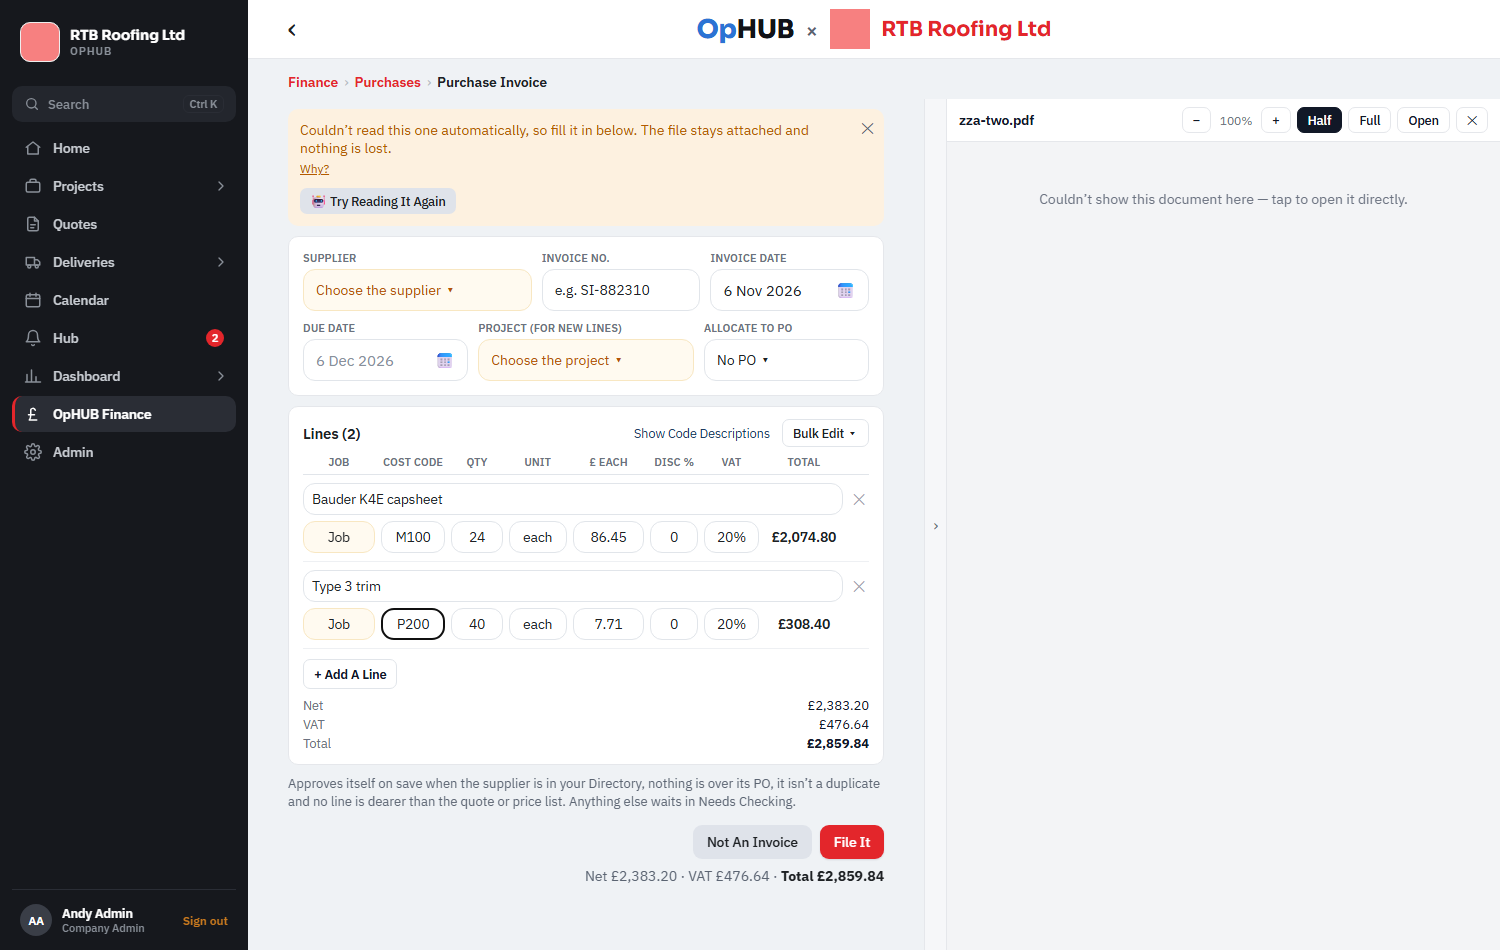
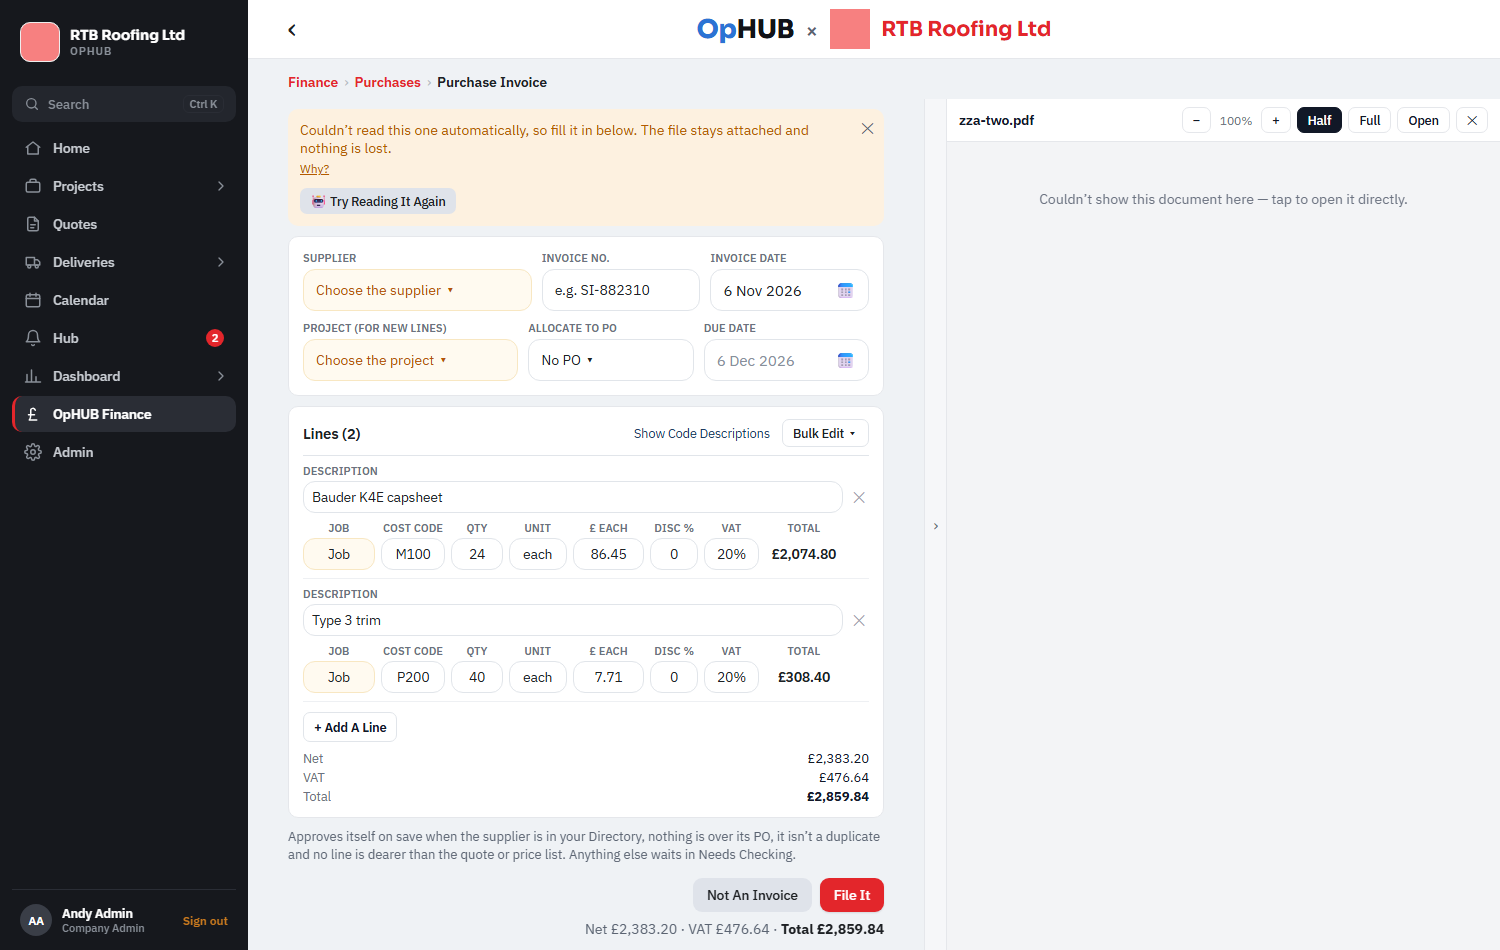
Purchase invoice lines (Andy, 6 Nov): beside the PDF each line has a Description heading over its description and the headings under it; Project, Allocate To PO, then Due Date on the right; the keyboard drop-down lists float over the page (nothing shows through, no sideways scrollbar, open upwards n
Claude-Session: https://claude.ai/code/session_012KhfNvBEbifMJmPdX7yZfp

diff --git a/app-native/src/components/InvoiceLines.tsx b/app-native/src/components/InvoiceLines.tsx
@@ -6,10 +6,10 @@
 // several projects by % (⇄), which must add up to 100%.
 // 6 Nov 2026 (Andy: "isn't nice to look at or simple to use"): laid out like the PO lines. Keyboard drop-downs for the
 // job, cost code, unit and VAT; cost codes show just the number unless Show Code Descriptions is ticked. Wide: one row
-// per line. Narrower (beside the PDF): the description on its own line, then Job, Code and the figures in one row
-// under one set of headings, everything centred.
+// per line. Narrower (beside the PDF): each line has Description over its description, then the headings and Job,
+// Code and the figures in one row under them, everything centred.
 import { useQuery } from '@tanstack/react-query';
-import { useState, type ReactNode } from 'react';
+import { useEffect, useRef, useState, type ComponentRef, type ReactNode } from 'react';
 import { Pressable, Text, TextInput, View } from 'react-native';
 
 import { pickJob } from '@/components/FinSales';
@@ -52,6 +52,10 @@ export function InvoiceLines({ lines: lines0, checks, sites, read, onChange, rea
   const [cardW, setCardW] = useState(0);
   const [splitAt, setSplitAt] = useState<number | null>(null);
   const [fullCodes, setFullCodes] = useState(false);
+  // + Add A Line (a click, or Tab to it and Enter) puts the cursor in the new line's description (Andy, 6 Nov 2026).
+  const descRefs = useRef<(ComponentRef<typeof TextInput> | null)[]>([]);
+  const [focusAt, setFocusAt] = useState<number | null>(null);
+  useEffect(() => { if (focusAt == null || !descRefs.current[focusAt]) return; descRefs.current[focusAt]?.focus(); setFocusAt(null); }, [focusAt, lines0.length]);
   // One row per line whenever it fits (beside the PDF too, with tighter columns); two rows only when narrow.
   const wide = cardW >= 680, tight = cardW < 960, phone = cardW > 0 && cardW < 520;
   // The company's cost codes (numbers); without any, the plain categories.
@@ -102,15 +106,20 @@ export function InvoiceLines({ lines: lines0, checks, sites, read, onChange, rea
   const total = (l: Line) => <View style={{ height: 32, justifyContent: 'center' }}><Text style={{ fontWeight: '600', color: base.ink, textAlign: 'center', fontSize: 13.5 }}>{money(lineValue(l))}</Text></View>;
   const drop = (k: number) => (readOnly ? null : <Pressable accessibilityRole="button" accessibilityLabel={`Remove line ${k + 1}`} hitSlop={6} onPress={() => { onChange(lines.filter((_, j) => j !== k)); setSplitAt(null); }} style={{ width: 20, height: 32, alignItems: 'center', justifyContent: 'center' }}><Text style={{ color: '#9ca3af', fontSize: 15 }}>✕</Text></Pressable>);
   const note = (k: number) => { const c = cheque(checks[k]); return c ? <Text style={{ color: c.col, fontSize: 11.5, fontWeight: '500', marginTop: 4 }}>{c.t}</Text> : null; };
-  const desc = (k: number, l: Line) => <TextInput editable={!readOnly} accessibilityLabel={`Line ${k + 1} description`} value={l.description ?? ''} onChangeText={(t) => set(k, { description: t })} placeholder="Description" style={box} />;
+  const desc = (k: number, l: Line) => <TextInput ref={(r) => { descRefs.current[k] = r; }} editable={!readOnly} accessibilityLabel={`Line ${k + 1} description`} value={l.description ?? ''} onChangeText={(t) => set(k, { description: t })} placeholder="Description" style={box} />;
   const cell = (w: number | 'flex', child: ReactNode, z = 0) => <View style={[w === 'flex' ? { flex: 1, minWidth: 120 } : { width: w }, z ? { zIndex: z } : null]}>{child}</View>;
   const H = (t: string, align: 'left' | 'center' | 'right' = 'center') => <Text style={[head, { textAlign: align }]}>{t}</Text>;
   // Column widths. Wide: one row. Narrower: the figures share the second row.
   const CW = tight ? { job: 74, code: fullCodes ? 180 : 66, qty: 48, unit: 58, rate: 74, disc: 46, vat: 56, total: 76, x: 20 } : { job: 92, code: fullCodes ? 210 : 80, qty: 58, unit: 66, rate: 84, disc: 56, vat: 64, total: 84, x: 20 };
   const FIG = phone ? { job: 0, code: 0, qty: 0.8, unit: 0.9, rate: 1.1, disc: 0.75, vat: 0.85, total: 1.25 } : { job: noJob ? 0 : 1.05, code: fullCodes ? 2.4 : 0.95, qty: 0.75, unit: 0.85, rate: 1.05, disc: 0.7, vat: 0.8, total: 1.15 };
   const fcell = (f: number, child: ReactNode, z = 0) => <View style={[{ flex: f, minWidth: 0 }, z ? { zIndex: z } : null]}>{child}</View>;
+  const figHead = (
+    <View style={{ flexDirection: 'row', gap: 6, marginTop: 8, marginBottom: 3 }}>
+      {!phone && !noJob && fcell(FIG.job, H('Job'))}{!phone && fcell(FIG.code, H(costHeading))}{fcell(FIG.qty, H('Qty'))}{fcell(FIG.unit, H('Unit'))}{fcell(FIG.rate, H('£ Each'))}{fcell(FIG.disc, H('Disc %'))}{fcell(FIG.vat, H('VAT'))}{fcell(FIG.total, H('Total'))}{!readOnly && <View style={{ width: 20 }} />}
+    </View>
+  );
   const figures = (k: number, l: Line) => (
-    <View style={{ flexDirection: 'row', gap: 6, marginTop: 6 }}>
+    <View style={{ flexDirection: 'row', gap: 6 }}>
       {!phone && showJob && fcell(FIG.job, job(k, l), 5)}{!phone && fcell(FIG.code, cost(k, l), 4)}{fcell(FIG.qty, qty(k, l))}{fcell(FIG.unit, unit(k, l), 3)}{fcell(FIG.rate, rate(k, l))}{fcell(FIG.disc, disc(k, l))}{fcell(FIG.vat, vat(k, l), 2)}{fcell(FIG.total, total(l))}{!readOnly && <View style={{ width: 20 }} />}
     </View>
   );
@@ -158,18 +167,12 @@ export function InvoiceLines({ lines: lines0, checks, sites, read, onChange, rea
           {codes.length > 0 && <Pressable onPress={() => setFullCodes(!fullCodes)}><Text style={{ color: base.blue, fontSize: 12.5 }}>{fullCodes ? 'Codes Only' : 'Show Code Descriptions'}</Text></Pressable>}
           {!readOnly && lines.length > 0 && <Pressable onPress={() => void bulk()} accessibilityRole="button" style={{ borderWidth: 1, borderColor: base.line, borderRadius: 7, paddingHorizontal: 10, height: 28, justifyContent: 'center' }}><Text style={{ fontSize: 12.5, fontWeight: '500', color: base.ink }}>Bulk Edit ▾</Text></Pressable>}
         </View>
-        {/* Headings once at the top. */}
-        <View style={{ paddingBottom: 5, borderBottomWidth: 1, borderBottomColor: base.line }}>
-          {wide ? (
+        {/* Wide: the headings once at the top. Narrower: each line has its own (Andy, 6 Nov 2026). */}
+        <View style={wide ? { paddingBottom: 5, borderBottomWidth: 1, borderBottomColor: base.line } : { borderBottomWidth: 1, borderBottomColor: base.line }}>
+          {wide && (
             <View style={{ flexDirection: 'row', gap: 6 }}>
               {cell('flex', H('Description', 'left'))}{showJob && cell(CW.job, H('Job'))}{cell(CW.code, H(costHeading))}{cell(CW.qty, H('Qty'))}{cell(CW.unit, H('Unit'))}{cell(CW.rate, H('£ Each'))}{cell(CW.disc, H('Disc %'))}{cell(CW.vat, H('VAT'))}{cell(CW.total, H('Total'))}{!readOnly && cell(CW.x, null)}
             </View>
-          ) : (
-            <>
-              <View style={{ flexDirection: 'row', gap: 6 }}>
-                {!phone && showJob && fcell(FIG.job, H('Job'))}{!phone && fcell(FIG.code, H(costHeading))}{fcell(FIG.qty, H('Qty'))}{fcell(FIG.unit, H('Unit'))}{fcell(FIG.rate, H('£ Each'))}{fcell(FIG.disc, H('Disc %'))}{fcell(FIG.vat, H('VAT'))}{fcell(FIG.total, H('Total'))}{!readOnly && <View style={{ width: 20 }} />}
-              </View>
-            </>
           )}
         </View>
         {lines.map((l, k) => (
@@ -180,13 +183,18 @@ export function InvoiceLines({ lines: lines0, checks, sites, read, onChange, rea
               </View>
             ) : phone ? (
               <>
+                <Text style={[head, { marginBottom: 3 }]}>Description</Text>
                 <View style={{ flexDirection: 'row', gap: 6, alignItems: 'center' }}>{cell('flex', desc(k, l))}{drop(k)}</View>
-                <View style={{ flexDirection: 'row', gap: 6, marginTop: 6, zIndex: 5 }}>{showJob && cell('flex', job(k, l), 4)}{cell('flex', cost(k, l), 3)}{!readOnly && <View style={{ width: 20 }} />}</View>
-                {figures(k, l)}
+                <View style={{ flexDirection: 'row', gap: 6, marginTop: 8 }}>{showJob && fcell(1, H('Job'))}{fcell(1, H(costHeading))}{!readOnly && <View style={{ width: 20 }} />}</View>
+                <View style={{ flexDirection: 'row', gap: 6, marginTop: 3, zIndex: 5 }}>{showJob && cell('flex', job(k, l), 4)}{cell('flex', cost(k, l), 3)}{!readOnly && <View style={{ width: 20 }} />}</View>
+                {figHead}
+                <View style={{ zIndex: 4 }}>{figures(k, l)}</View>
               </>
             ) : (
               <>
+                <Text style={[head, { marginBottom: 3 }]}>Description</Text>
                 <View style={{ flexDirection: 'row', gap: 6, alignItems: 'center' }}>{cell('flex', desc(k, l))}{drop(k)}</View>
+                {figHead}
                 <View style={{ zIndex: 5 }}>{figures(k, l)}</View>
               </>
             )}
@@ -195,7 +203,7 @@ export function InvoiceLines({ lines: lines0, checks, sites, read, onChange, rea
           </View>
         ))}
         {!readOnly && (
-          <Pressable accessibilityRole="button" onPress={() => onChange([...lines, blankLine(defaultSite)])} style={{ alignSelf: 'flex-start', marginTop: 10, borderWidth: 1, borderColor: base.line, borderRadius: 7, paddingHorizontal: 10, height: 30, justifyContent: 'center', backgroundColor: '#fff' }}>
+          <Pressable accessibilityRole="button" onPress={() => { onChange([...lines, blankLine(defaultSite)]); setFocusAt(lines.length); }} style={{ alignSelf: 'flex-start', marginTop: 10, borderWidth: 1, borderColor: base.line, borderRadius: 7, paddingHorizontal: 10, height: 30, justifyContent: 'center', backgroundColor: '#fff' }}>
             <Text style={{ fontSize: 12.5, fontWeight: '600', color: '#111827' }}>+ Add A Line</Text>
           </Pressable>
         )}

diff --git a/app-native/src/components/TypePick.tsx b/app-native/src/components/TypePick.tsx
@@ -1,9 +1,10 @@
 // A drop-down you can work from the keyboard, like the Unit box in Applications (Andy, 5 Nov 2026): Tab into it, type to
 // narrow the list or press the down / up arrows, then Tab or Enter takes the highlighted one and moves on. A click works
 // too. Shows the short text (e.g. a cost code's number) in the box, and the full label in the list.
-import { useEffect, useRef, useState } from 'react';
+import React, { useEffect, useRef, useState } from 'react';
 import { Platform, Pressable, Text, TextInput, View, type StyleProp, type TextStyle } from 'react-native';
 
+import { Portal } from '@/components/Portal';
 import { base } from '@/theme/theme';
 
 export type PickOpt = { v: string; label: string; short?: string };
@@ -20,17 +21,42 @@ export function TypePick({ value, options, onChange, style, label, placeholder, 
   const list = options.filter((o) => !q || o.label.toLowerCase().includes(q) || (o.short || '').toLowerCase().startsWith(q));
   // A click in the list mustn't take focus from the box first.
   const box = useRef<View>(null);
+  // Web: the list floats over the page under the box (fixed position), following it if the page scrolls.
+  const input = useRef<React.ComponentRef<typeof TextInput>>(null);
+  const [at, setAt] = useState<{ x: number; y: number; w: number; up: boolean } | null>(null);
+  useEffect(() => {
+    if (Platform.OS !== 'web' || !open) return undefined;
+    const el = input.current as unknown as HTMLElement | null;
+    const place = () => { const r = el?.getBoundingClientRect?.(); if (!r) return; const up = r.bottom + 270 > window.innerHeight && r.top > 280; setAt({ x: Math.min(r.left, window.innerWidth - listWidth - 8), y: up ? r.top - 4 : r.bottom + 4, w: r.width, up }); };
+    place();
+    window.addEventListener('scroll', place, true); window.addEventListener('resize', place);
+    return () => { window.removeEventListener('scroll', place, true); window.removeEventListener('resize', place); };
+  }, [open, listWidth]);
+  const placed = !!at;
   useEffect(() => {
     if (Platform.OS !== 'web' || !open) return;
     const el = box.current as unknown as HTMLElement | null;
     const hold = (e: Event) => e.preventDefault();
     el?.addEventListener?.('mousedown', hold);
     return () => el?.removeEventListener?.('mousedown', hold);
-  }, [open]);
+  }, [open, placed]);
+  const web = Platform.OS === 'web';
   const take = (o?: PickOpt) => { setOpen(false); setHi(-1); setTyped(null); if (o) onChange(o.v); };
+  // Only up-and-down scrolling in the list, no sideways bar (Andy, 6 Nov 2026).
+  const place = web && at ? { position: 'fixed' as 'absolute', left: at.x, ...(at.up ? { bottom: window.innerHeight - at.y } : { top: at.y }), zIndex: 9999 } : { position: 'absolute' as const, top: 32, left: 0 };
+  const scrollY = (web ? { overflowX: 'hidden', overflowY: 'auto' } : { overflow: 'hidden' }) as object;
+  const drop = (
+    <View ref={box as never} {...({ tabIndex: -1 } as object)} style={[{ ...place, width: Math.max(listWidth, at?.w ?? 0), maxHeight: 260, backgroundColor: base.card, borderWidth: 1, borderColor: base.line, borderRadius: 8, paddingVertical: 4, shadowColor: '#000', shadowOpacity: 0.12, shadowRadius: 10, shadowOffset: { width: 0, height: 4 }, elevation: 6 }, scrollY]}>
+      {list.map((o, i) => (
+        <Pressable key={o.v} focusable={false} onPress={() => take(o)} style={{ paddingHorizontal: 10, paddingVertical: 6, backgroundColor: hi === i ? '#E7EDF8' : o.v === value ? '#F6F7F9' : undefined }}>
+          <Text numberOfLines={1} style={{ fontSize: 13, color: base.ink, fontWeight: o.v === value ? '600' : '400' }}>{o.label}</Text>
+        </Pressable>
+      ))}
+    </View>
+  );
   return (
     <View style={{ zIndex: open ? 60 : 0 }}>
-      <TextInput value={typed ?? shown} placeholder={placeholder || label} accessibilityLabel={label} autoComplete="off" style={[style, { textAlign: align }]}
+      <TextInput ref={input} value={typed ?? shown} placeholder={placeholder || label} accessibilityLabel={label} autoComplete="off" style={[style, { textAlign: align }]}
         onChangeText={(t) => { setTyped(t); setOpen(true); setHi(0); }}
         onFocus={() => { setOpen(true); setHi(Math.max(0, options.findIndex((o) => o.v === value))); }}
         onBlur={() => { setOpen(false); setHi(-1); setTyped(null); }}
@@ -43,15 +69,7 @@ export function TypePick({ value, options, onChange, style, label, placeholder, 
           else if (k === 'Tab') setOpen(false);
           else if (k === 'Escape') { setOpen(false); setTyped(null); }
         }} />
-      {open && list.length > 0 && (
-        <View ref={box as never} {...({ tabIndex: -1 } as object)} style={{ position: 'absolute', top: 32, left: 0, width: listWidth, maxHeight: 260, overflow: 'scroll' as 'hidden', backgroundColor: base.card, borderWidth: 1, borderColor: base.line, borderRadius: 8, paddingVertical: 4, shadowColor: '#000', shadowOpacity: 0.12, shadowRadius: 10, shadowOffset: { width: 0, height: 4 }, elevation: 6 }}>
-          {list.map((o, i) => (
-            <Pressable key={o.v} focusable={false} onPress={() => take(o)} style={{ paddingHorizontal: 10, paddingVertical: 6, backgroundColor: hi === i ? '#E7EDF8' : o.v === value ? '#F6F7F9' : undefined }}>
-              <Text style={{ fontSize: 13, color: base.ink, fontWeight: o.v === value ? '600' : '400' }}>{o.label}</Text>
-            </Pressable>
-          ))}
-        </View>
-      )}
+      {open && list.length > 0 && (web ? (at ? <Portal>{drop}</Portal> : null) : drop)}
     </View>
   );
 }

diff --git a/app-native/src/components/FinNewPo.tsx b/app-native/src/components/FinNewPo.tsx
@@ -8,7 +8,7 @@
 import { useQuery, useQueryClient } from '@tanstack/react-query';
 import * as DocumentPicker from 'expo-document-picker';
 import { router } from 'expo-router';
-import { useState, type ReactNode } from 'react';
+import { useEffect, useRef, useState, type ComponentRef, type ReactNode } from 'react';
 import { Pressable, ScrollView, Text, TextInput, View } from 'react-native';
 
 import { DateBox, todayIso } from '@/components/DateField';
@@ -104,6 +104,10 @@ export function FinNewPo({ site: site0, itemIds = [], toTop }: { site?: Site | n
   const [showShop, setShowShop] = useState(true); // the project quote panel; ✕ closes it and the PO goes full width
   const [upBusy, setUpBusy] = useState('');
   const [fullCodes, setFullCodes] = useState(false); // cost codes: just the number unless asked
+  // + Add Line puts the cursor in the new line's description (Andy, 6 Nov 2026).
+  const descRefs = useRef<(ComponentRef<typeof TextInput> | null)[]>([]);
+  const [focusAt, setFocusAt] = useState<number | null>(null);
+  useEffect(() => { if (focusAt == null || !descRefs.current[focusAt]) return; descRefs.current[focusAt]?.focus(); setFocusAt(null); }, [focusAt, lines.length]);
   const [saved, setSaved] = useState<{ id: string; number: string } | null>(null); // after Save Draft / Raise PO
   const [statusNow, setStatusNow] = useState<'draft' | 'open' | ''>('');
   const [panel, setPanel] = useState<'quote' | 'pdf'>('quote'); // the right-hand panel: the project quote, or the PO PDF
@@ -304,7 +308,7 @@ export function FinNewPo({ site: site0, itemIds = [], toTop }: { site?: Site | n
       : <TypePick label={`Line ${i + 1} job`} value={l.site_id} options={lineJobOpts} onChange={(v) => { if (v === '__split') { set(i, { alloc: [{ site_id: l.site_id || site.id, pct: 50 }, { site_id: '', pct: 50 }] }); setOpenSplit(i); } else setJob(i, v); }} placeholder="Job" listWidth={300} style={[box, cell]} />}</View>;
     const onMain = !split?.length && !l.alloc?.length && (l.site_id || site.id) === site.id;
     const plot = !hasPlots ? null : <View style={{ width: desk ? W.plot : 110 }}>{onMain ? <TypePick label={`Line ${i + 1} plot`} value={l.sub || ''} options={plotOpts} onChange={(v) => set(i, { sub: v || undefined })} listWidth={240} style={[box, cell]} /> : <View style={[box, { paddingVertical: 6, backgroundColor: '#F6F7F9' }]}><Text style={{ textAlign: 'center', color: base.slate, fontSize: 13 }}>—</Text></View>}</View>;
-    const desc = <TextInput accessibilityLabel={`Line ${i + 1} description`} value={l.description} onChangeText={(v) => set(i, { description: v })} placeholder="Description" style={[box, { flex: 1, minWidth: 0, paddingVertical: 5, fontSize: 13.5, textAlign: 'left' }]} />;
+    const desc = <TextInput ref={(r) => { descRefs.current[i] = r; }} accessibilityLabel={`Line ${i + 1} description`} value={l.description} onChangeText={(v) => set(i, { description: v })} placeholder="Description" style={[box, { flex: 1, minWidth: 0, paddingVertical: 5, fontSize: 13.5, textAlign: 'left' }]} />;
     const nums = (
       <>
         <TextInput accessibilityLabel="Qty" value={l.qty} onChangeText={(v) => set(i, { qty: v.replace(/[^0-9.]/g, '') })} placeholder="Qty" keyboardType="decimal-pad" style={[box, cell, { width: W.qty }]} />
@@ -411,7 +415,7 @@ export function FinNewPo({ site: site0, itemIds = [], toTop }: { site?: Site | n
         )}
         {lines.map(lineRow)}
         <View style={{ flexDirection: 'row', alignItems: 'flex-start', marginTop: 4 }}>
-          <Button small kind="ghost" title="+ Add Line" onPress={() => setLines((ls) => [...ls, blank(ls[ls.length - 1]?.vat || vat0, site.id || ls[ls.length - 1]?.site_id || '')])} />
+          <Button small kind="ghost" title="+ Add Line" onPress={() => { setLines((ls) => [...ls, blank(ls[ls.length - 1]?.vat || vat0, site.id || ls[ls.length - 1]?.site_id || '')]); setFocusAt(lines.length); }} />
           <View style={{ marginLeft: 'auto', alignItems: 'flex-end', gap: 2 }}>
             <Text style={{ color: base.slate }}>Subtotal {money(net)}</Text>
             {tots.byVat.map((b) => <Text key={b.code} style={{ color: base.slate }}>{b.name} on {money(b.net)}: {money(b.vat)}</Text>)}

diff --git a/tools/test-harness/pilines-shots.js b/tools/test-harness/pilines-shots.js
@@ -23,6 +23,21 @@ const check = (ok, what) => { console.log((ok ? 'PASS ' : 'FAIL ') + what); if (
   await page.getByLabel('Line 2 cost code').click(); await page.waitForTimeout(300); await page.getByText('P200 – Plant hire').last().click(); await page.waitForTimeout(300);
   const y = async (l) => Math.round((await page.getByLabel(l).boundingBox()).y);
   check(Math.abs(await y('Line 1 job') - await y('Line 1 VAT')) < 3, 'beside the PDF: the description, then job, code and figures on one row');
+  check(await page.getByText('Description', {exact: true}).count() >= 2, 'beside the PDF each line has its own Description heading');
+  const x = async (l) => Math.round((await page.getByLabel(l, {exact: true}).last().boundingBox()).x);
+  check(await x('Project') < await x('Allocate To PO') && await x('Allocate To PO') < await x('Due date'), 'Project, then Allocate To PO, then Due Date on the right');
+  // The drop-down list floats over the page: its top item is what's under the pointer.
+  await page.getByLabel('Line 1 cost code').click(); await page.waitForTimeout(400);
+  const it = page.getByText('P200 – Plant hire').last(); const b = await it.boundingBox();
+  const hit = await page.evaluate(([px, py]) => document.elementFromPoint(px, py)?.textContent || '', [b.x + 20, b.y + b.height / 2]);
+  check(hit.includes('P200'), 'the cost code list sits on top of the page (' + hit.slice(0, 30) + ')');
+  await page.screenshot({path: 'shots/job/pilines-drop-1500.png'});
+  await page.keyboard.press('Escape'); await page.getByLabel('Line 2 description').click();
+  // Tab to + Add A Line and press Enter: the cursor lands in the new line's description.
+  await page.getByRole('button', {name: '+ Add A Line'}).focus(); await page.keyboard.press('Enter'); await page.waitForTimeout(500);
+  check(await page.evaluate(() => document.activeElement?.getAttribute('aria-label')) === 'Line 3 description', 'Enter on + Add A Line goes to the new line’s description');
+  await page.keyboard.type('Ridge tiles'); check(await page.getByLabel('Line 3 description').inputValue() === 'Ridge tiles', 'and you can keep typing');
+  await page.getByLabel('Remove line 3').click(); await page.waitForTimeout(300);
   check(await page.getByLabel('Line 2 cost code').inputValue() === 'P200', 'the cost code shows just the number');
   check(await page.getByLabel('Allocate To PO').count() >= 1, 'Allocate To PO');
   await page.screenshot({path: 'shots/job/pilines-pdf-1500.png'});

diff --git a/app-native/src/components/PinvEditor.tsx b/app-native/src/components/PinvEditor.tsx
@@ -174,9 +174,9 @@ export function PinvEditor({ inbox, siteId: site0, poId: po0, start }: { inbox?:
             {field(receipt ? 'Date' : 'Invoice Date', <DateBox value={date} onChange={setDate} title="Invoice date" clearable={false} />, 150)}
           </View>
           <View style={{ flexDirection: 'row', flexWrap: 'wrap', gap: 10, marginTop: 10 }}>
-            {field('Due Date', <DateBox value={due} onChange={setDue} title="Due date" placeholder={date ? fdate(addDays(date, 30)) : 'Choose'} />, 140)}
             {field('Project (for new lines)', choice('Project', siteId ? jobTag(site(siteId)) : 'Choose the project', () => void chooseSite(), !siteId), 190)}
             {field('Allocate To PO', choice('Allocate To PO', poId ? pos.find((p) => p.id === poId)?.number || 'PO' : 'No PO', () => { if (!siteId) { toast('Choose the project first.'); return; } void choosePo(); }), 140)}
+            {field('Due Date', <DateBox value={due} onChange={setDue} title="Due date" placeholder={date ? fdate(addDays(date, 30)) : 'Choose'} />, 140)}
           </View>
           {!inbox && <View style={{ marginTop: 8 }}><Check label="This is a receipt (no invoice number)" value={receipt} onChange={setReceipt} /></View>}
         </Card>

diff --git a/app-native/src/components/Portal.web.tsx b/app-native/src/components/Portal.web.tsx
@@ -1,0 +1,8 @@
+// Draws its children on top of the whole page (web), so a drop-down list isn't hidden or overlapped by what comes
+// after it on the page (Andy, 6 Nov 2026).
+import type { ReactNode } from 'react';
+import { createPortal } from 'react-dom';
+
+export function Portal({ children }: { children: ReactNode }) {
+  return typeof document === 'undefined' ? <>{children}</> : createPortal(children, document.body);
+}

diff --git a/app-native/src/components/Portal.tsx b/app-native/src/components/Portal.tsx
@@ -1,0 +1,6 @@
+// Phones: drawn where it is (the web version lifts it on top of the page).
+import type { ReactNode } from 'react';
+
+export function Portal({ children }: { children: ReactNode }) {
+  return <>{children}</>;
+}
